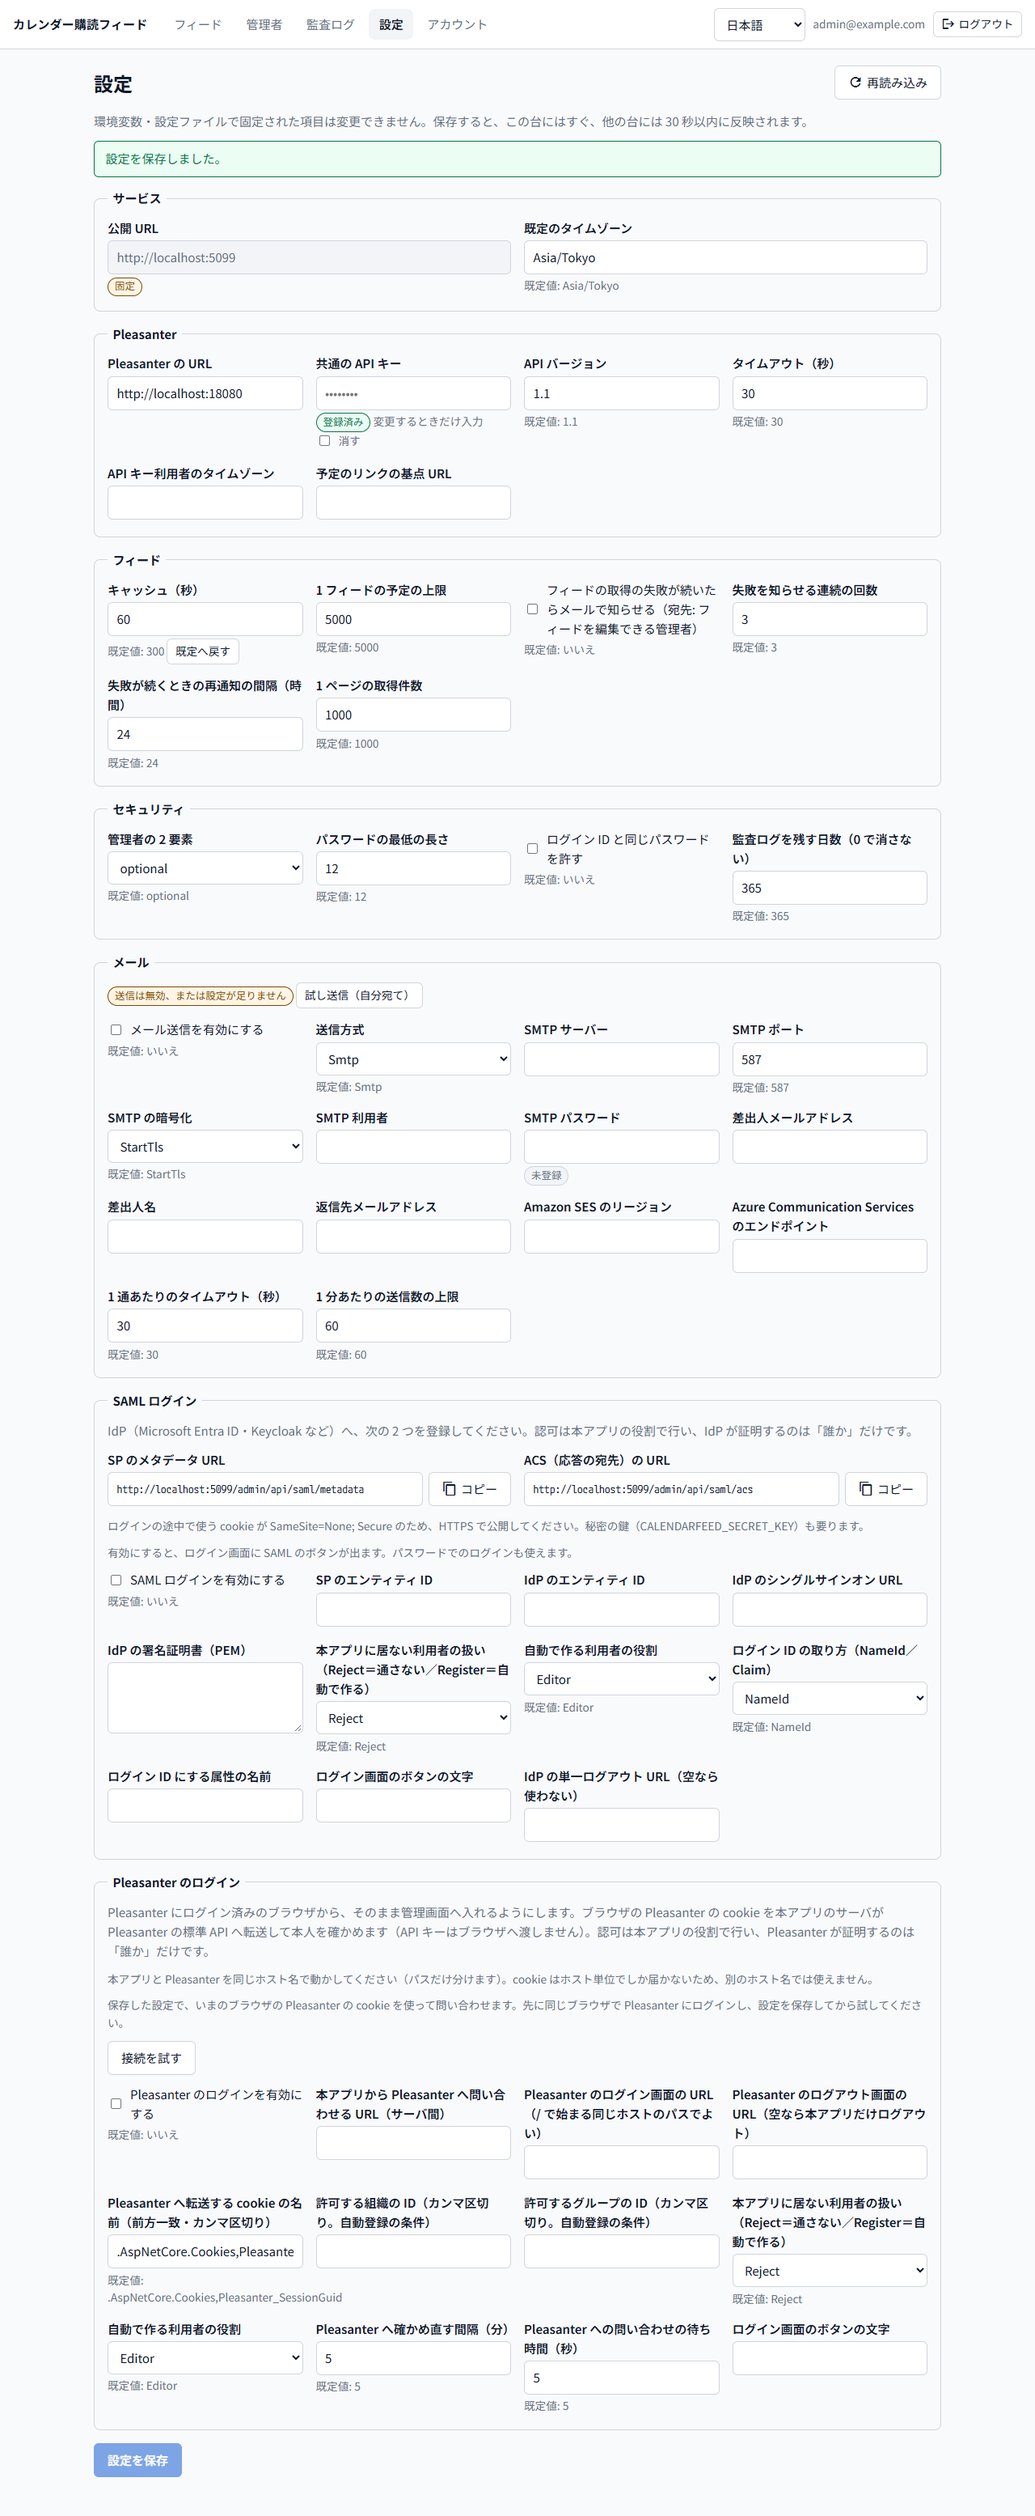
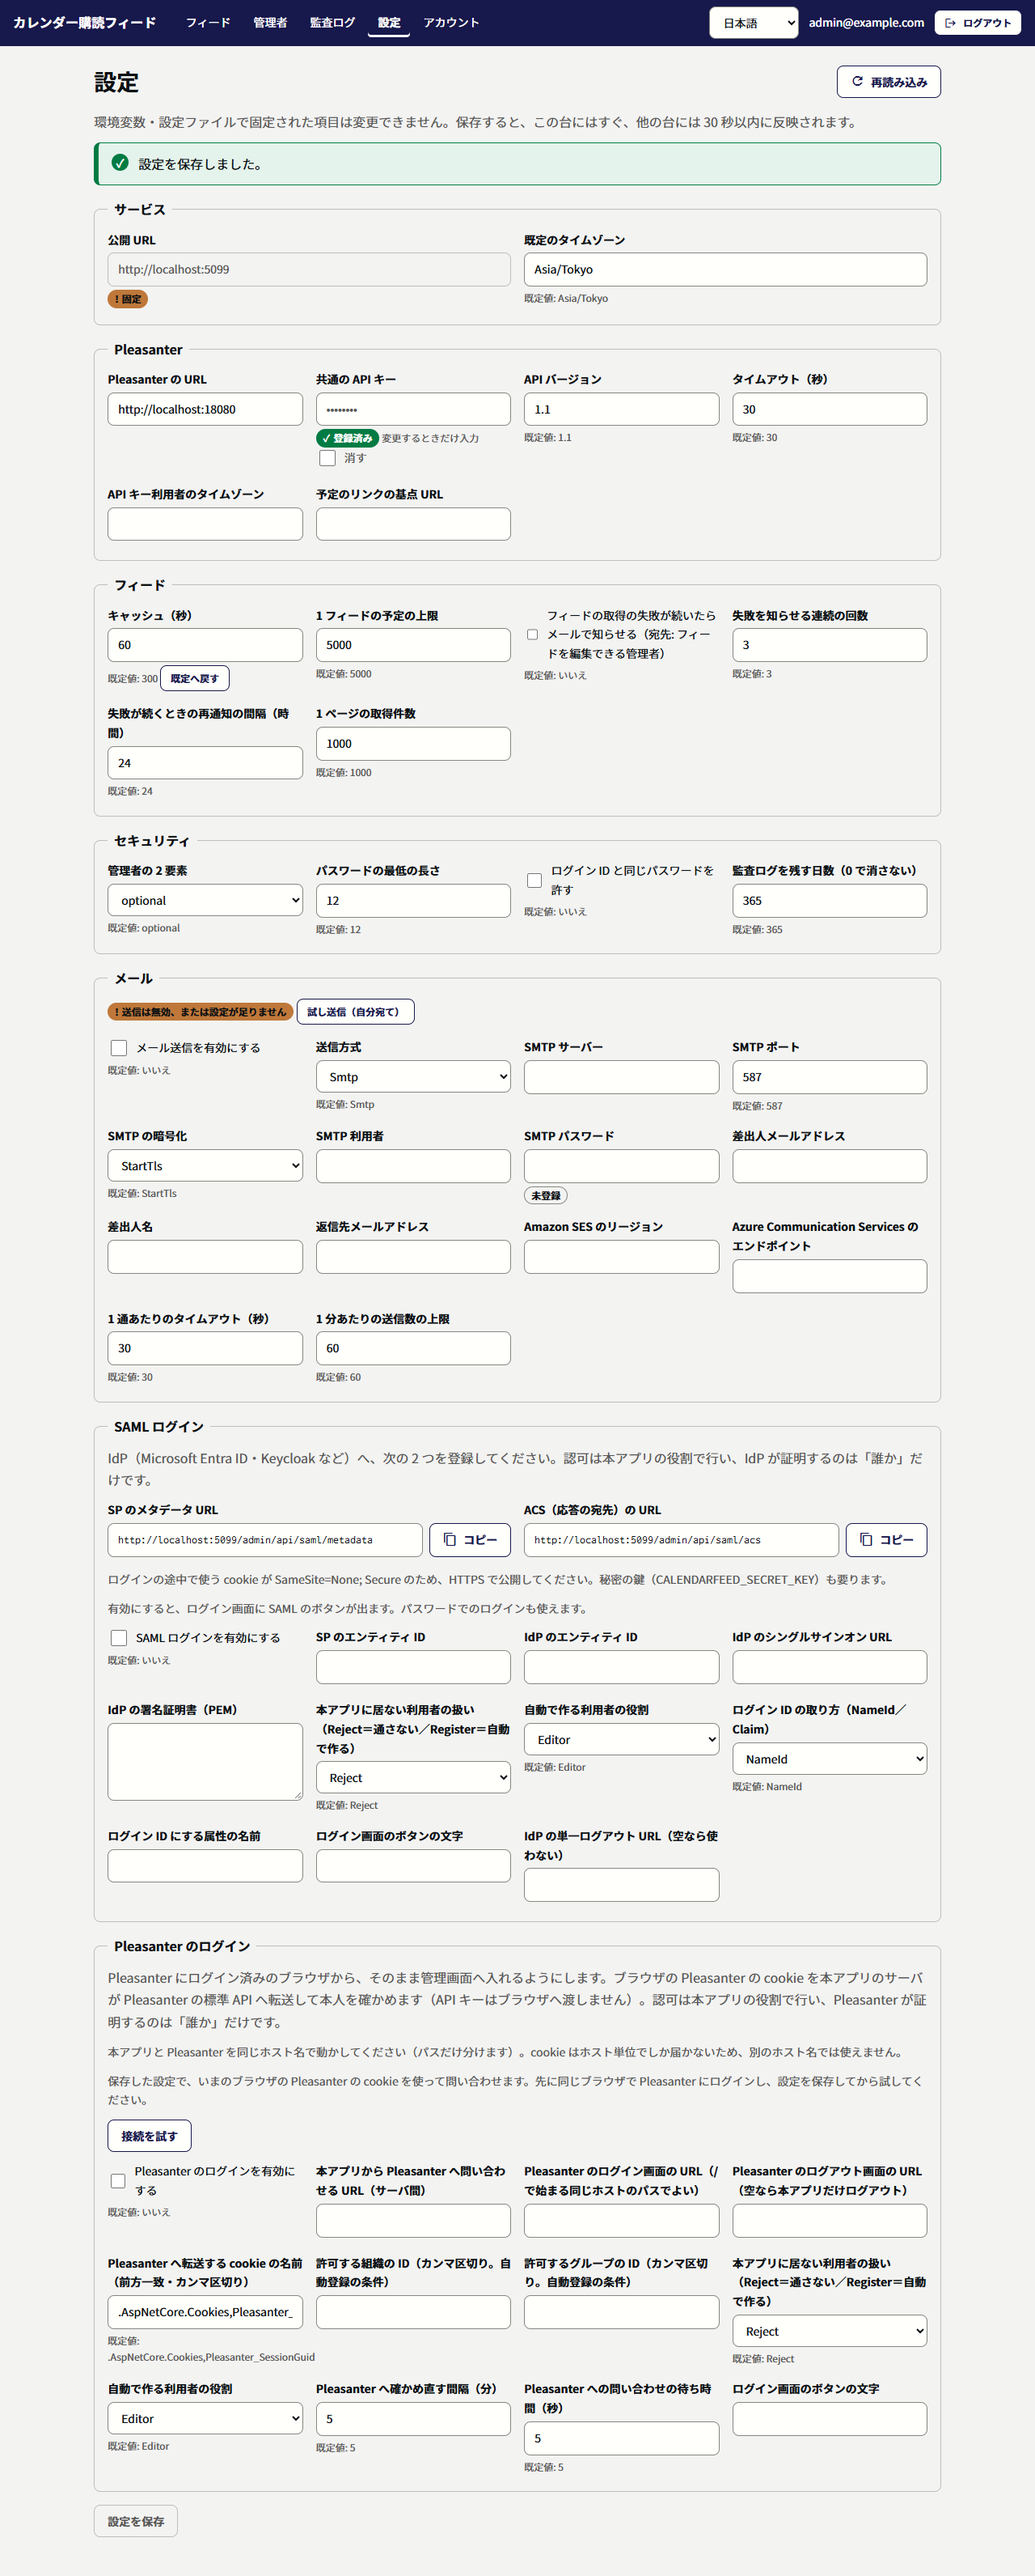
管理画面に「本文へ移動」リンクを足し、文書の画面の写しを撮り直す (#199)
* 管理画面に「本文へ移動」リンク（.skip-link）を足す (#196)

* 文書の画面の写しを新しい配色・書体で撮り直す (#197)

tools/screenshots/capture.mjs で 24 枚を撮り直した。サンプルデータ（example.com・偽の Pleasanter）のみ。

---------

diff --git a/src/VehicleVision.PleasanterTools.CalendarFeed.Frontend/src/App.svelte b/src/VehicleVision.PleasanterTools.CalendarFeed.Frontend/src/App.svelte
@@ -94,6 +94,12 @@
     }
   }
 
+  /** 本文へ移動する。URL のハッシュは変えず（画面の切り替えは URL のパスで行う）、本文へフォーカスを移す。 */
+  function skipToContent(event: Event): void {
+    event.preventDefault();
+    document.getElementById('main-content')?.focus();
+  }
+
   async function signOut(): Promise<void> {
     // SAML で入ったセッションは、こちらのセッションを捨てたうえで、IdP の単一ログアウトへも進む（経路はサーバが決める）
     if (me?.viaSaml) {
@@ -133,6 +139,7 @@
 {:else if phase === 'invite'}
   <InvitationAcceptPanel token={inviteToken} onstep={onStep} />
 {:else if me}
+  <a class="skip-link" href="#main-content" onclick={skipToContent}>{t('skipToContent')}</a>
   <header class="shell-header">
     <span class="brand">{t('appName')}</span>
     <nav class="nav" aria-label={t('appName')}>
@@ -146,7 +153,7 @@
       <button class="btn small" type="button" onclick={signOut}><span class="material-icons" aria-hidden="true">logout</span>{t('signOut')}</button>
     </div>
   </header>
-  <main>
+  <main id="main-content" tabindex="-1">
     {#if tab === 'feeds'}
       <FeedList permissions={me.permissions} />
     {:else if tab === 'users'}

diff --git a/src/VehicleVision.PleasanterTools.CalendarFeed.Frontend/src/lib/i18n/messages/vi.ts b/src/VehicleVision.PleasanterTools.CalendarFeed.Frontend/src/lib/i18n/messages/vi.ts
@@ -36,6 +36,7 @@ export const vi: Record<MessageKey, string> = {
 
   // ---- Sign-in / setup ----
   signOut: 'Đăng xuất',
+  skipToContent: 'Bỏ qua để đến nội dung chính',
   loginId: 'ID đăng nhập',
   password: 'Mật khẩu',
   newPassword: 'Mật khẩu mới',

diff --git a/src/VehicleVision.PleasanterTools.CalendarFeed.Frontend/src/lib/i18n/messages/es.ts b/src/VehicleVision.PleasanterTools.CalendarFeed.Frontend/src/lib/i18n/messages/es.ts
@@ -36,6 +36,7 @@ export const es: Record<MessageKey, string> = {
 
   // ---- Sign-in / setup ----
   signOut: 'Cerrar sesión',
+  skipToContent: 'Saltar al contenido',
   loginId: 'ID de inicio de sesión',
   password: 'Contraseña',
   newPassword: 'Nueva contraseña',

diff --git a/src/VehicleVision.PleasanterTools.CalendarFeed.Frontend/src/lib/i18n/messages/ko.ts b/src/VehicleVision.PleasanterTools.CalendarFeed.Frontend/src/lib/i18n/messages/ko.ts
@@ -36,6 +36,7 @@ export const ko: Record<MessageKey, string> = {
 
   // ---- Sign-in / setup ----
   signOut: '로그아웃',
+  skipToContent: '본문으로 건너뛰기',
   loginId: '로그인 ID',
   password: '비밀번호',
   newPassword: '새 비밀번호',

diff --git a/src/VehicleVision.PleasanterTools.CalendarFeed.Frontend/src/lib/i18n/messages/ja.ts b/src/VehicleVision.PleasanterTools.CalendarFeed.Frontend/src/lib/i18n/messages/ja.ts
@@ -38,6 +38,7 @@ export const ja = {
 
   // ---- ログイン・初期設定 ----
   signOut: 'ログアウト',
+  skipToContent: '本文へ移動',
   loginId: 'ログイン ID',
   password: 'パスワード',
   newPassword: '新しいパスワード',

diff --git a/src/VehicleVision.PleasanterTools.CalendarFeed.Frontend/src/lib/i18n/messages/de.ts b/src/VehicleVision.PleasanterTools.CalendarFeed.Frontend/src/lib/i18n/messages/de.ts
@@ -36,6 +36,7 @@ export const de: Record<MessageKey, string> = {
 
   // ---- Sign-in / setup ----
   signOut: 'Abmelden',
+  skipToContent: 'Zum Inhalt springen',
   loginId: 'Anmelde-ID',
   password: 'Passwort',
   newPassword: 'Neues Passwort',

diff --git a/src/VehicleVision.PleasanterTools.CalendarFeed.Frontend/src/lib/i18n/messages/en.ts b/src/VehicleVision.PleasanterTools.CalendarFeed.Frontend/src/lib/i18n/messages/en.ts
@@ -36,6 +36,7 @@ export const en: Record<MessageKey, string> = {
 
   // ---- Sign-in / setup ----
   signOut: 'Sign out',
+  skipToContent: 'Skip to main content',
   loginId: 'Login ID',
   password: 'Password',
   newPassword: 'New password',

diff --git a/src/VehicleVision.PleasanterTools.CalendarFeed.Frontend/src/lib/i18n/messages/zh.ts b/src/VehicleVision.PleasanterTools.CalendarFeed.Frontend/src/lib/i18n/messages/zh.ts
@@ -36,6 +36,7 @@ export const zh: Record<MessageKey, string> = {
 
   // ---- Sign-in / setup ----
   signOut: '退出登录',
+  skipToContent: '跳到正文',
   loginId: '登录 ID',
   password: '密码',
   newPassword: '新密码',
